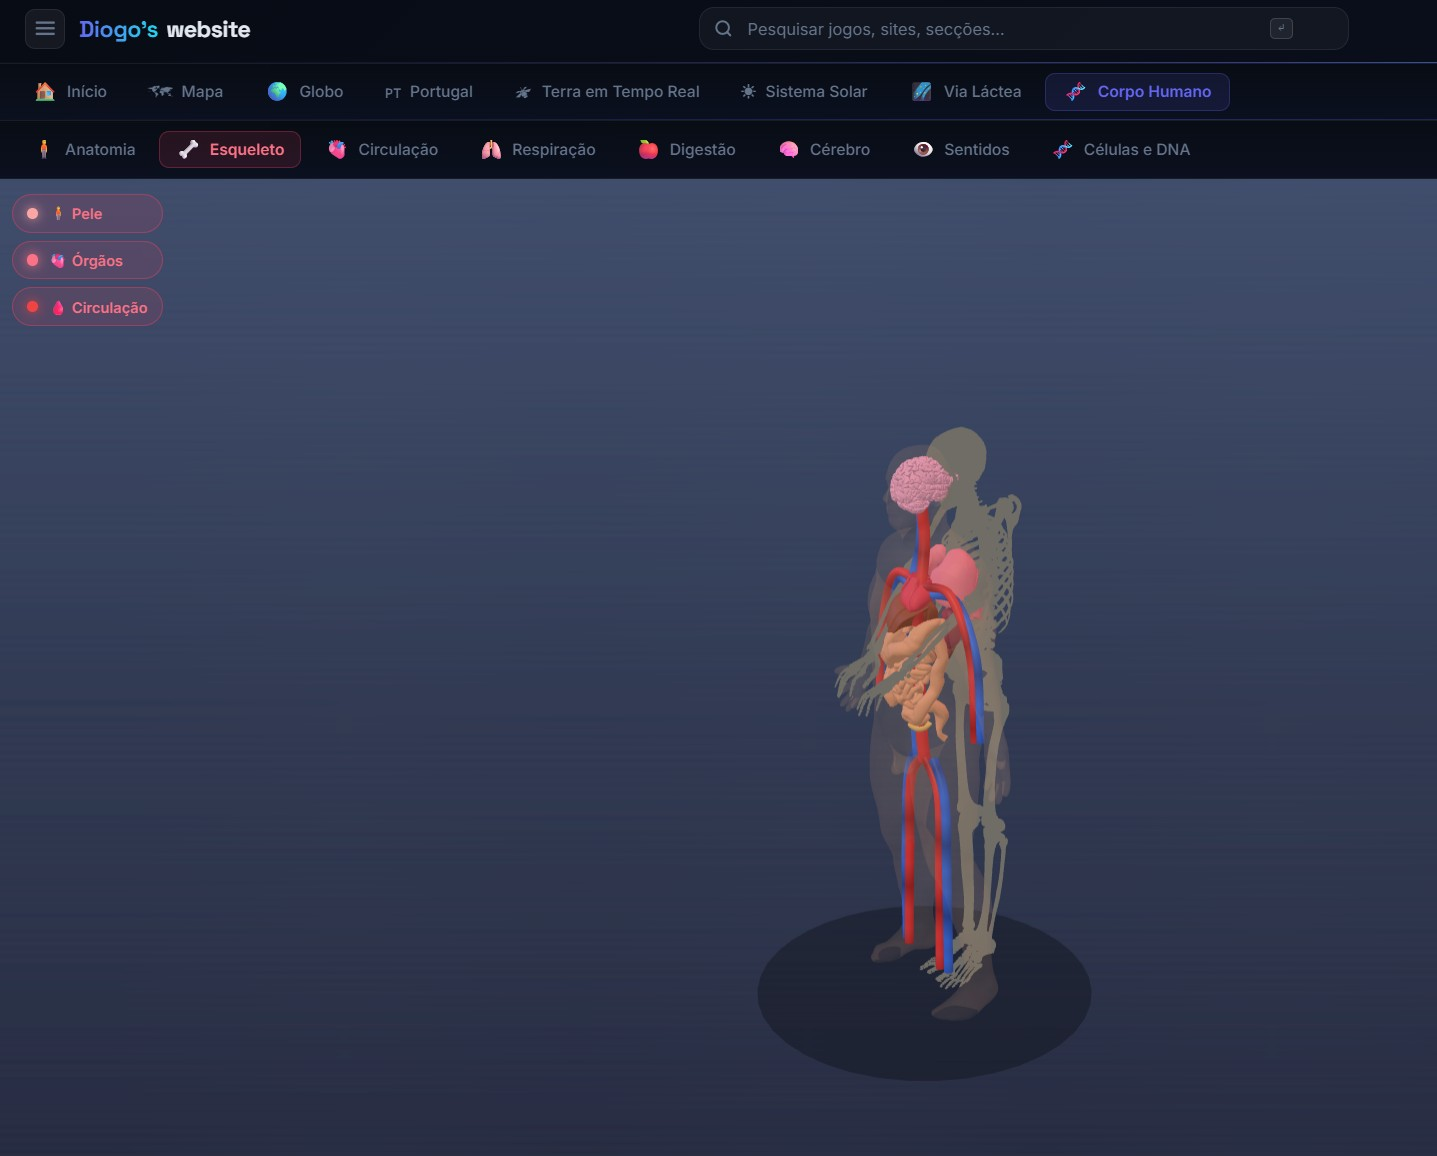
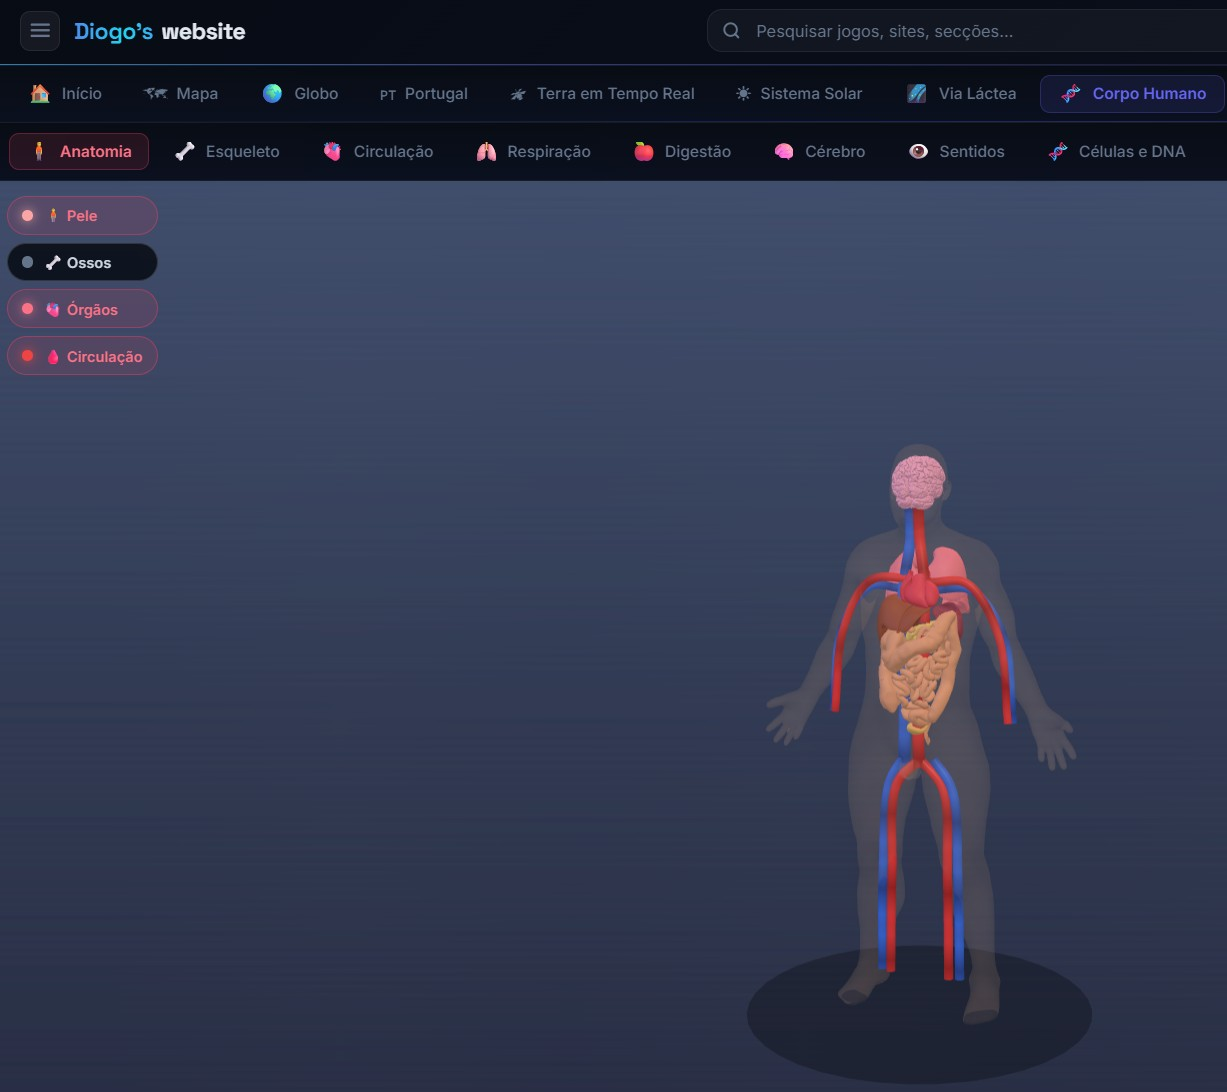
Solar System: real Milky Way star sky background (ESO, CC-BY)
Engine review: the explorers already use the right engines (three.js for
3D, Leaflet for maps, NASA GIBS tiles for realtime) — no engine swap
needed. The quality lever is assets, and the planet textures turned out to
already be the Solar System Scope 2K maps. The one clear win was the
deep-space background, which was a flat colour + procedural points (an
external texture had been removed earlier over licensing).

Restored it with the real ESO/S.Brunier all-sky Milky Way panorama
(CC-BY 4.0), downscaled to 4096x2048 (~1.4 MB) and bundled locally. Set as
the scene's equirectangular background — the correct viewpoint, since from
inside the Solar System we look out at our own galaxy. Falls back to the
solid colour if it fails to load. Credited in ASSET-LICENSE-AUDIT.md.

sw cache v85 -> v86.

Changed region(s): [[0.0, 0.0, 1.0, 0.3425], [0.5884, 0.3736, 0.8672, 0.9341]]

diff --git a/js/explorer/explorer-solar.js b/js/explorer/explorer-solar.js
@@ -440,10 +440,17 @@ const SolarExplorer = (function () {
     /* Scene */
     _scene = new THREE.Scene();
 
-    /* Space background — solid deep-space colour. The starry look comes from
-       the procedural starfield below (generated locally), so we use no external
-       background image (avoids any unverifiable third-party texture licence). */
+    /* Space background — the real Milky Way star sky (ESO/S.Brunier panorama,
+       CC-BY 4.0, bundled locally). This is exactly the right viewpoint: from
+       inside the Solar System we look out at our own galaxy. Solid colour shows
+       until the texture loads, and stays as the fallback if it fails. */
     _scene.background = new THREE.Color(0x05060f);
+    new THREE.TextureLoader().load('assets/space/milkyway.jpg', tex => {
+      tex.mapping = THREE.EquirectangularReflectionMapping;
+      if (THREE.SRGBColorSpace) tex.colorSpace = THREE.SRGBColorSpace;
+      tex.anisotropy = _maxAniso || 1;
+      _scene.background = tex;
+    }, undefined, () => {});
 
     /* Starfield */
     const starCount = Math.round(5000 * _q);

diff --git a/sw.js b/sw.js
@@ -1,4 +1,4 @@
-const CACHE = 'dcop7-v85';
+const CACHE = 'dcop7-v86';
 const STATIC = [
   '/',
   '/index.html',

diff --git a/ASSET-LICENSE-AUDIT.md b/ASSET-LICENSE-AUDIT.md
@@ -12,6 +12,7 @@ Generated by `quizzes/tools/audit-assets.mjs`. Full machine-readable registry:
 - **235** logo SVGs — **Simple Icons, CC0** (public domain). SAFE.
 - **33** monument photos — **Wikimedia Commons**, each with a verified free licence + author in `monuments/credits.json`. SAFE.
 - **favicon.svg** + inline UI / traffic-sign / symbol SVG — original work in this repo. SAFE.
+- **Milky Way panorama** (`assets/space/milkyway.jpg`, 4096×2048, ~1.4 MB) — **ESO/S. Brunier**, **CC BY 4.0** (attribution required). Used as the deep-space background of the Solar System explorer (correct viewpoint: looking out at our galaxy from inside). This *restores* the previously-removed solar background, now with a verified licence. SAFE.
 - **13** anatomical 3D models (`assets/models/body/*.glb`, ~4.6 MB) — **NIH 3D**, **CC BY 4.0** (attribution required). The organs + skin are the *Human Reference Atlas* Visible Human Male reference objects; skeleton and brain are separate NIH 3D entries. Downloaded, simplified and meshopt-compressed locally (offline). Full attribution in `assets/models/body/CREDITS.md`. SAFE (attribution present).
 
 ## Remote references & inline categories